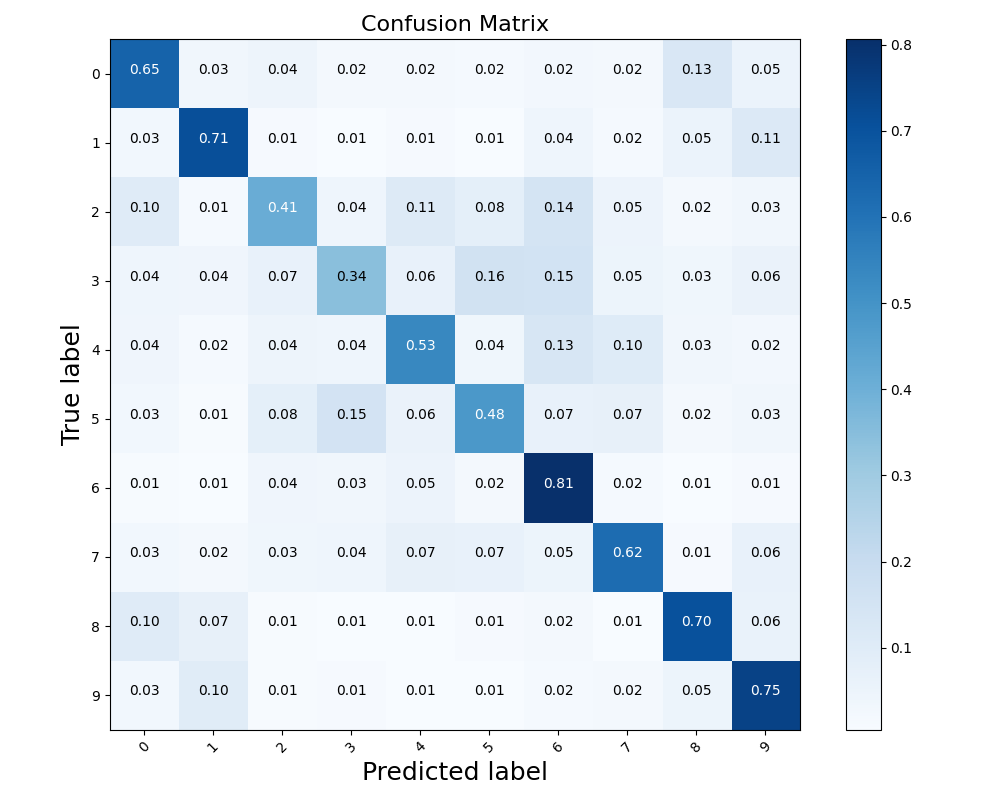
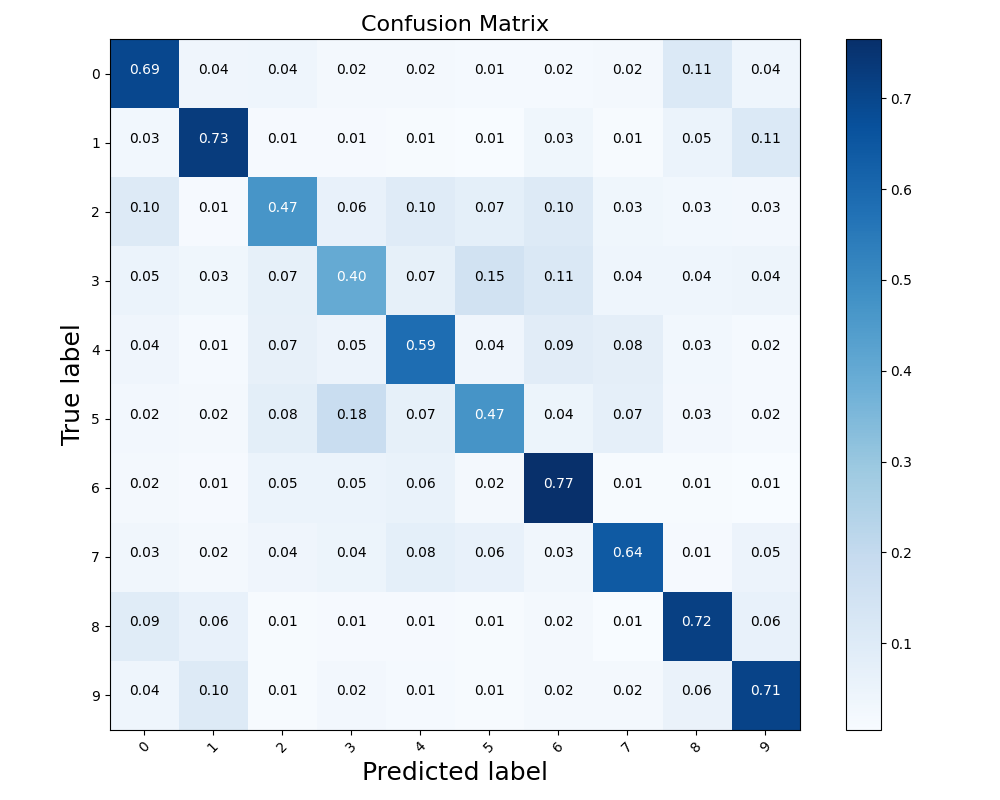
Correct the mean removal in the saab.py

diff --git a/CIFAR10/saab.py b/CIFAR10/saab.py
@@ -476,14 +476,21 @@ def initialize(sample_images, layer_no, pca_params, print_detail=False):
     sample_patches = sample_patches.reshape([-1, sample_patches.shape[-1]])
     # sample_patches = np.subtract(sample_patches, mean) / std
 
+    # Remove feature mean (Set E(X)=0 for each dimension)
+    sample_patches_centered, feature_expectation = remove_mean(sample_patches, axis=0)
+    # sample_patches_centered=sample_patches-feature_expectation
+
+    # Remove patch mean
+    training_data, dc = remove_mean(sample_patches_centered, axis=1)
+
     num_channels = sample_patches.shape[-1]
     if i == 0:
         # Transform to get data for the next stage
-        transformed = np.matmul(sample_patches, np.transpose(kernels))
+        transformed = np.matmul(sample_patches_centered, np.transpose(kernels))
     else:
         bias = pca_params['Layer_%d/bias' % i]
         # Add bias
-        sample_patches_centered_w_bias = sample_patches + 1 / np.sqrt(num_channels) * bias
+        sample_patches_centered_w_bias = sample_patches_centered + 1 / np.sqrt(num_channels) * bias
         # Transform to get data for the next stage
         transformed = np.matmul(sample_patches_centered_w_bias, np.transpose(kernels))
         # Remove bias

diff --git a/MNIST/saab.py b/MNIST/saab.py
@@ -478,15 +478,21 @@ def initialize(sample_images, layer_no, pca_params, print_detail=False):
     # Flatten
     sample_patches = sample_patches.reshape([-1, sample_patches.shape[-1]])
 
+    # Remove feature mean (Set E(X)=0 for each dimension)
+    sample_patches_centered, feature_expectation = remove_mean(sample_patches, axis=0)
+    # sample_patches_centered=sample_patches-feature_expectation
+
+    # Remove patch mean
+    training_data, dc = remove_mean(sample_patches_centered, axis=1)
 
     num_channels = sample_patches.shape[-1]
     if i == 0:
         # Transform to get data for the next stage
-        transformed = np.matmul(sample_patches, np.transpose(kernels))
+        transformed = np.matmul(sample_patches_centered, np.transpose(kernels))
     else:
         bias = pca_params['Layer_%d/bias' % i]
         # Add bias
-        sample_patches_centered_w_bias = sample_patches + 1 / np.sqrt(num_channels) * bias
+        sample_patches_centered_w_bias = sample_patches_centered + 1 / np.sqrt(num_channels) * bias
         # Transform to get data for the next stage
         transformed = np.matmul(sample_patches_centered_w_bias, np.transpose(kernels))
         # Remove bias

diff --git a/MNIST/main.py b/MNIST/main.py
@@ -21,7 +21,6 @@ def parse_arg():
     # General Parameters
     parser = argparse.ArgumentParser(description='main.py')
     parser.add_argument('-dataset', choices=['MNIST', 'CIFAR10'], default='MNIST')
-    parser.add_argument('-num_class_per_batch', type=int, default=2) # Num of classes per batch
     parser.add_argument('-random_seed', type=int, default=1) # Random Seed for shuffling and model initialization
     parser.add_argument('-channel', type=int, default=1)
     parser.add_argument('-resolution', type=int, default=32)
@@ -86,6 +85,7 @@ def main():
     print('Energy_percent:', energy_percent)
     print('1st layer PCA method:', opt.PCA_method_1st)
     print('2nd layer PCA method:', opt.PCA_method_2nd)
+
     print('Use IPCA:', use_ipca)
     print('Device:', device)
     if (device == "GPU"):
